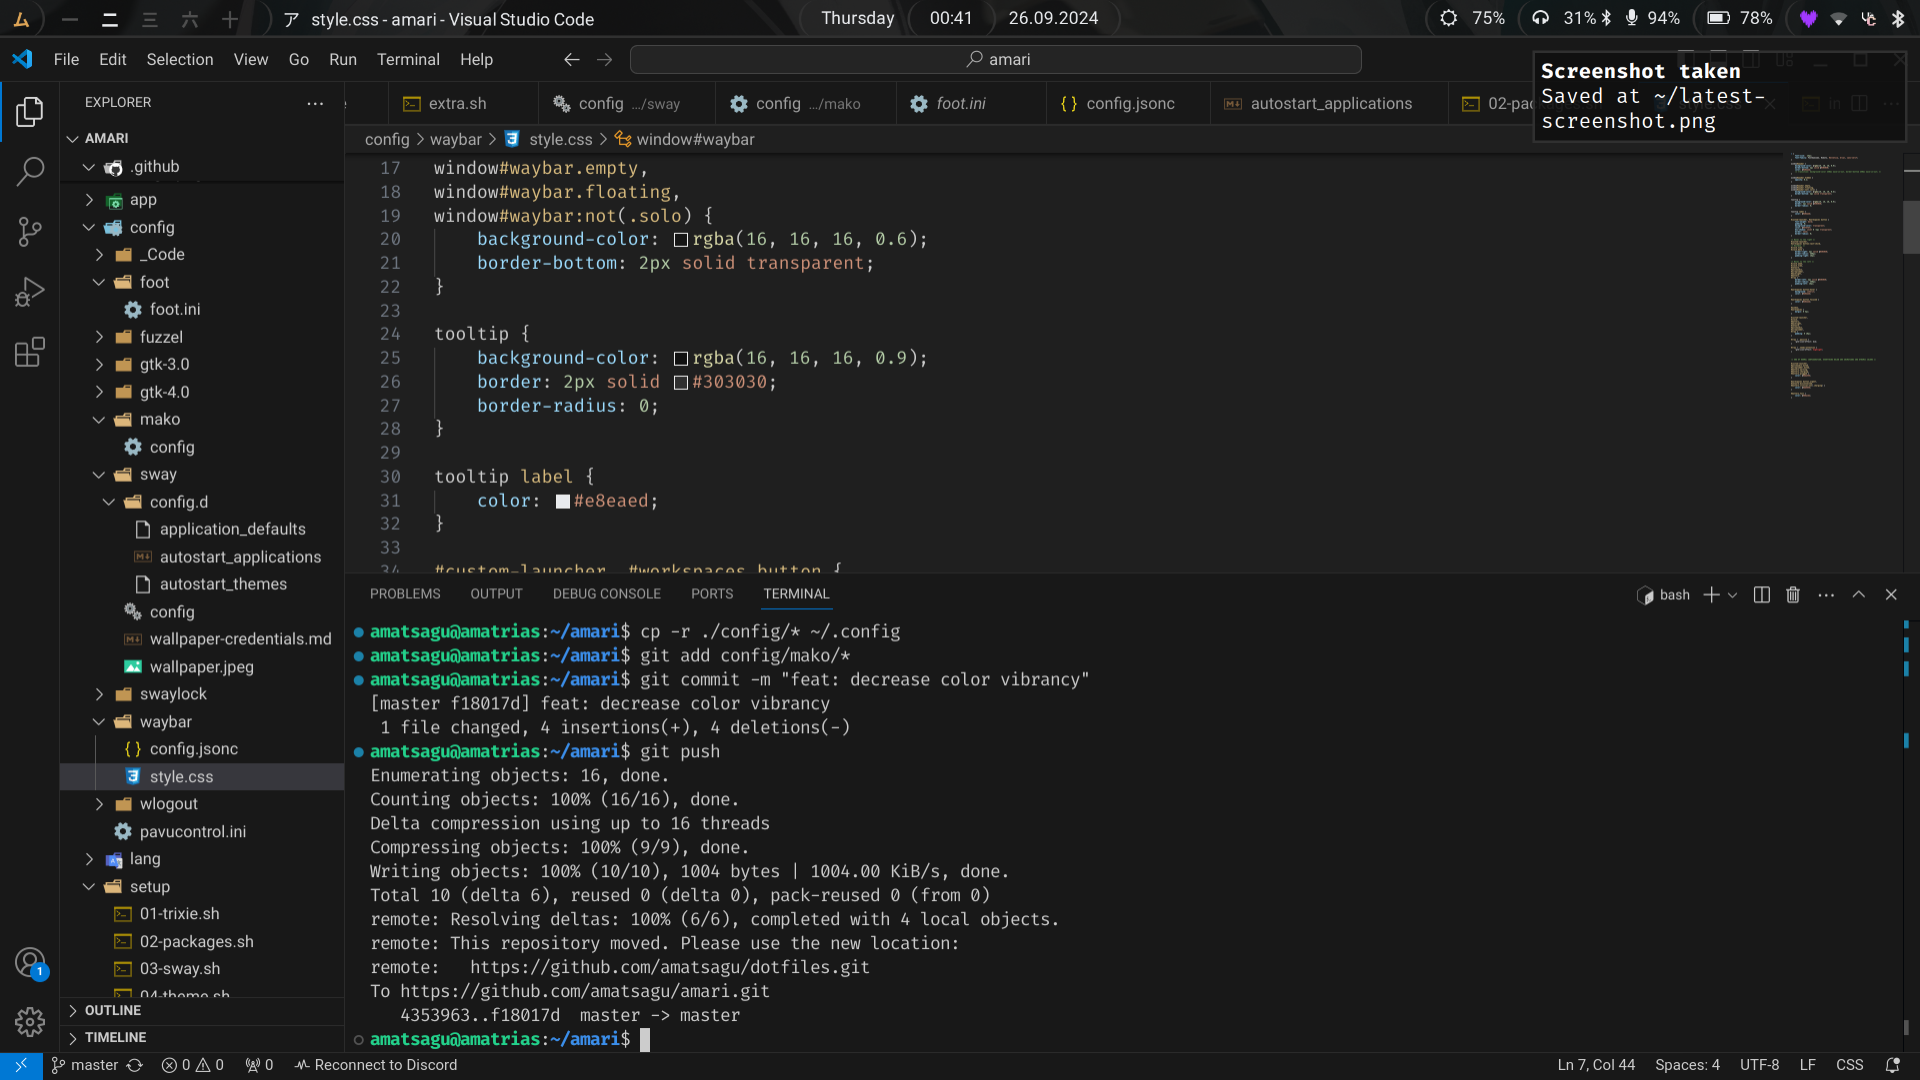
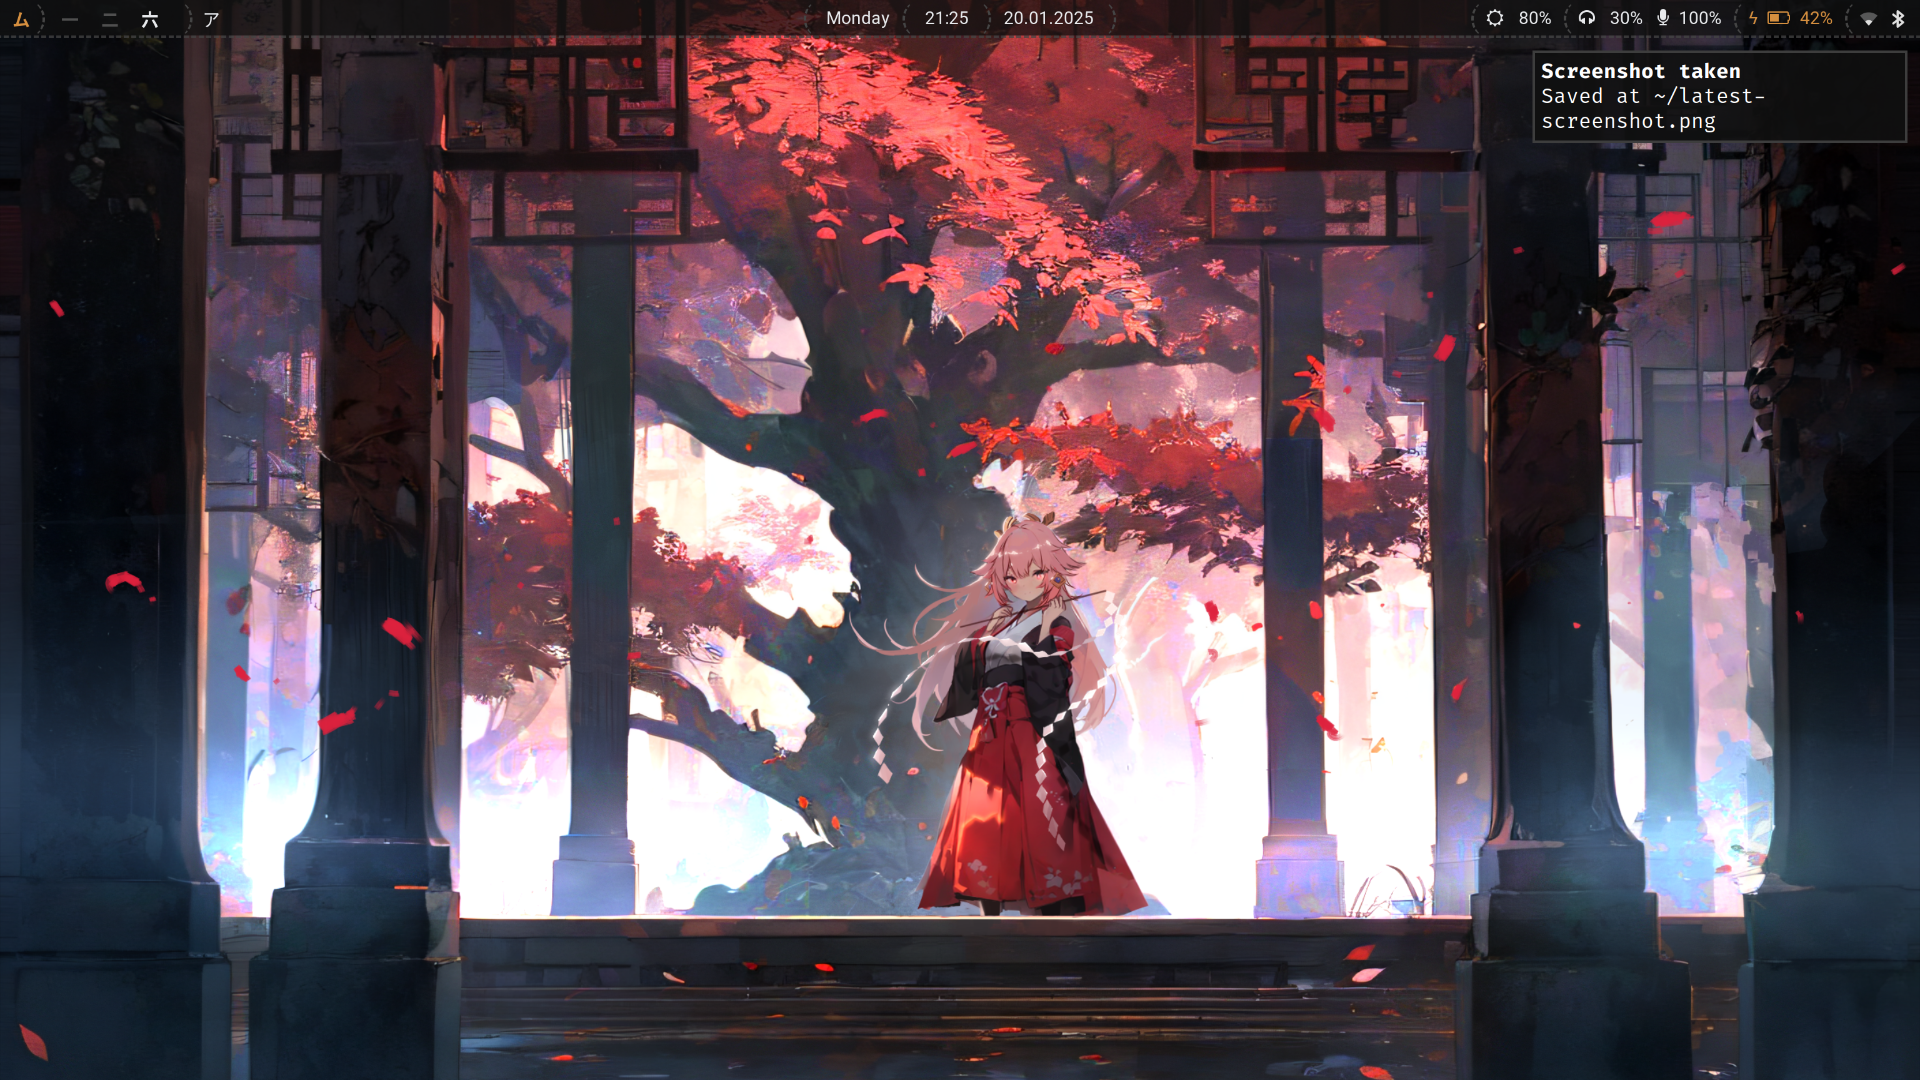
feat: sync

diff --git a/config/waybar/style.css b/config/waybar/style.css
@@ -5,7 +5,7 @@
 
 window#waybar {
     background-color: rgba(16, 16, 16, 0.9);
-    border-bottom: 2px solid #3d3d3d;
+    border-bottom: 2px solid #444444;
     color: #e8eaed;
     /* transition: background-color 250ms ease-in-out, border-bottom 250ms ease-in-out; */
 }
@@ -17,13 +17,13 @@ window#waybar.hidden {
 window#waybar.empty,
 window#waybar.floating,
 window#waybar:not(.solo) {
-    background-color: rgba(16, 16, 16, 0.6);
-    border-bottom: 2px solid transparent;
+    background-color: rgba(16, 16, 16, 0.75);
+    border-bottom: 2px dashed rgba(68, 68, 68, 0.75);
 }
 
 tooltip {
     background-color: rgba(16, 16, 16, 0.9);
-    border: 2px solid #3d3d3d;
+    border: 2px solid #444444;
     border-radius: 0;
 }
 
@@ -47,8 +47,8 @@ tooltip label {
 /* #window, */
 #clock.time,
 #clock.date {
-    border-right: 2px solid #3d3d3d;
-    border-radius: 120px;
+    border-right: 2px dashed #444444;
+    border-radius: 360px;
     padding-right: 16px;
 }
 
@@ -60,8 +60,8 @@ tooltip label {
 #backlight,
 #battery,
 #tray {
-    border-left: 2px solid #3d3d3d;
-    border-radius: 120px;
+    border-left: 2px dashed #444444;
+    border-radius: 360px;
     padding-left: 16px;
 }
 
